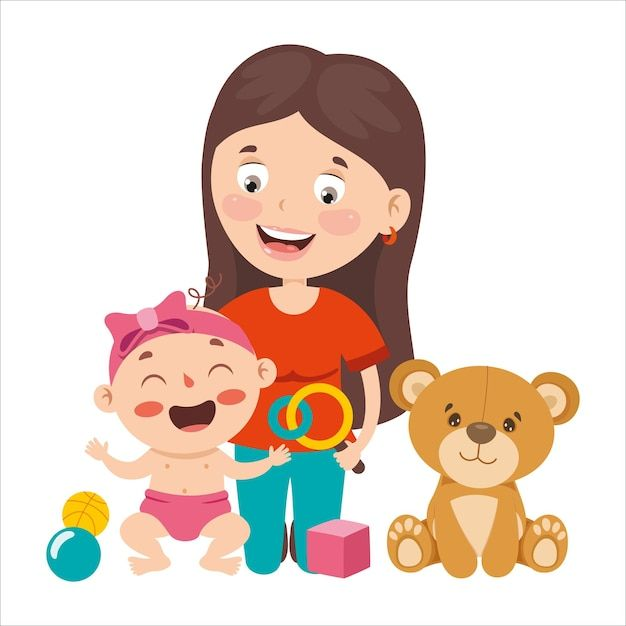
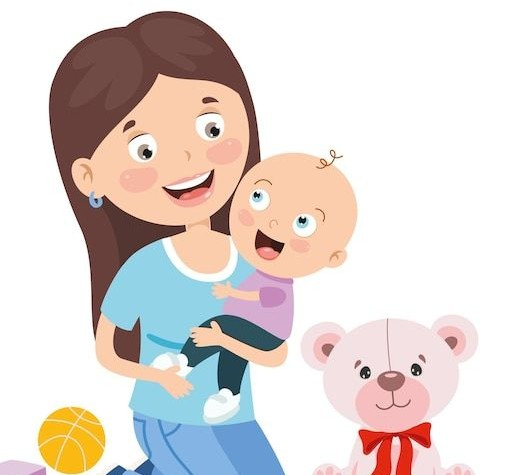
homepage_v1

diff --git a/src/components/ImageCarousel.js b/src/components/ImageCarousel.js
@@ -1,0 +1,128 @@
+import { useEffect, useState } from 'react';
+import { ChevronLeft, ChevronRight } from 'lucide-react';
+import slidePlay from '../assets/slide-babysitter-play.jpg';
+import slideDropoff from '../assets/slide-parent-dropoff.jpg';
+import slideReading from '../assets/slide-reading-time.jpg';
+import slideArt from '../assets/slide-art-activity.jpg';
+import slideStory from '../assets/slide-evening-story.jpg';
+
+const slides = [
+  {
+    src: slidePlay,
+    alt: 'Baby-sitter et enfant jouent ensemble',
+    title: 'Jeux et rires partagés',
+    description: 'Une baby-sitter attentive qui accompagne les petits moments de jeu.',
+  },
+  {
+    src: slideDropoff,
+    alt: 'Parent confiant qui dépose son enfant',
+    title: 'Départ serein des parents',
+    description: 'Confiance et sourire pour chaque garde, dès le premier contact.',
+  },
+  {
+    src: slideReading,
+    alt: 'Lecture d\'une histoire avec un enfant',
+    title: 'Lecture douce et réconfort',
+    description: 'Des instants calmes où l\'enfant se sent bien et écouté.',
+  },
+  {
+    src: slideArt,
+    alt: 'Temps d\'activité créative avec coloriage',
+    title: 'Activités créatives',
+    description: 'Peinture, coloriage et imagination pour une garde inspirante.',
+  },
+  {
+    src: slideStory,
+    alt: 'Veillée conte avant le coucher',
+    title: 'Moments apaisés avant le coucher',
+    description: 'Une ambiance douce pour finir la journée en confiance.',
+  },
+];
+
+function ImageCarousel() {
+  const [activeIndex, setActiveIndex] = useState(0);
+  const [isPaused, setIsPaused] = useState(false);
+
+  useEffect(() => {
+    if (isPaused) {
+      return undefined;
+    }
+
+    const interval = window.setInterval(() => {
+      setActiveIndex((current) => (current + 1) % slides.length);
+    }, 3600);
+
+    return () => window.clearInterval(interval);
+  }, [isPaused]);
+
+  const goToSlide = (index) => {
+    setActiveIndex(index);
+  };
+
+  const goPrevious = () => {
+    setActiveIndex((current) => (current - 1 + slides.length) % slides.length);
+  };
+
+  const goNext = () => {
+    setActiveIndex((current) => (current + 1) % slides.length);
+  };
+
+  return (
+    <div
+      className="group relative overflow-hidden rounded-[28px] bg-slate-50 shadow-soft transition-shadow duration-300 hover:shadow-lg"
+      onMouseEnter={() => setIsPaused(true)}
+      onMouseLeave={() => setIsPaused(false)}
+    >
+      <div className="relative h-[320px] sm:h-[360px] md:h-[400px]">
+        {slides.map((slide, index) => (
+          <div
+            key={slide.alt}
+            className={`absolute inset-0 flex items-center justify-center overflow-hidden transition-opacity duration-700 ease-in-out ${index === activeIndex ? 'opacity-100' : 'opacity-0'} `}
+          >
+            <img
+              src={slide.src}
+              alt={slide.alt}
+              className="max-h-full w-full object-contain object-center"
+            />
+            <div className="absolute inset-x-0 bottom-0 bg-gradient-to-t from-slate-950/50 to-transparent px-5 py-5 text-white">
+              <p className="text-sm uppercase tracking-[0.24em] text-amber-200">Confi&apos;Sit</p>
+              <h3 className="mt-2 text-xl font-semibold tracking-tight sm:text-2xl">{slide.title}</h3>
+              <p className="mt-2 max-w-xl text-sm text-slate-100 sm:text-base">{slide.description}</p>
+            </div>
+          </div>
+        ))}
+      </div>
+
+      <div className="absolute inset-x-0 bottom-4 flex justify-center gap-2">
+        {slides.map((_, index) => (
+          <button
+            key={index}
+            type="button"
+            aria-label={`Afficher la diapositive ${index + 1}`}
+            onClick={() => goToSlide(index)}
+            className={`h-3 w-3 rounded-full transition-all duration-300 ${index === activeIndex ? 'bg-amber-500 shadow-soft' : 'bg-white/80 ring-1 ring-slate-200 hover:bg-white'}`}
+          />
+        ))}
+      </div>
+
+      <button
+        type="button"
+        onClick={goPrevious}
+        className="absolute left-3 top-1/2 z-20 -translate-y-1/2 rounded-full bg-slate-950/20 p-2 text-white opacity-0 transition-opacity duration-300 group-hover:opacity-100 hover:bg-slate-950/30 sm:left-4"
+        aria-label="Image précédente"
+      >
+        <ChevronLeft size={22} />
+      </button>
+      <button
+        type="button"
+        onClick={goNext}
+        className="absolute right-3 top-1/2 z-20 -translate-y-1/2 rounded-full bg-slate-950/20 p-2 text-white opacity-0 transition-opacity duration-300 group-hover:opacity-100 hover:bg-slate-950/30 sm:right-4"
+        aria-label="Image suivante"
+      >
+        <ChevronRight size={22} />
+      </button>
+    </div>
+  );
+}
+
+export default ImageCarousel;

diff --git a/src/pages/HomePage.js b/src/pages/HomePage.js
@@ -1,5 +1,6 @@
 import { Link } from 'react-router-dom';
 import { ArrowRight } from 'lucide-react';
+import ImageCarousel from '../components/ImageCarousel';
 
 function HomePage({ user, homeMode, setHomeMode }) {
 
@@ -33,7 +34,7 @@ function HomePage({ user, homeMode, setHomeMode }) {
           <div className="space-y-6">
             <span className="inline-flex rounded-full bg-slate-100 px-4 py-2 text-sm font-semibold uppercase tracking-[0.3em] text-amber-700">Confi&apos;Sit</span>
             <h1 className="max-w-3xl text-4xl font-semibold tracking-tight text-slate-900 sm:text-5xl">
-              Babysitting en Tunisie, simple et sûr pour les parents exigeants.
+              Confiez vos enfants en toute sérénité, où que vous soyez en Tunisie.
             </h1>
             <p className="max-w-2xl text-lg leading-8 text-slate-600">
               Confi&apos;Sit met en relation parents et baby-sitters de confiance avec des profils clairs, des avis transparents et une expérience mobile-first.
@@ -55,20 +56,17 @@ function HomePage({ user, homeMode, setHomeMode }) {
             <div className="rounded-[28px] bg-gradient-to-br from-amber-100 to-white p-6 shadow-inner">
               <p className="text-sm font-semibold uppercase tracking-[0.3em] text-amber-700">Rejoignez-nous</p>
               <p className="mt-4 text-lg font-semibold text-slate-900">Des gardes fiables, proches et sereines.</p>
-              <div className="mt-6 grid gap-4">
-                <div className="rounded-3xl bg-slate-50 p-4">
-                  <p className="text-sm text-slate-600">Sécurité</p>
-                  <p className="mt-2 text-base font-semibold text-slate-900">Profils vérifiés et parcours transparent.</p>
-                </div>
-                <div className="rounded-3xl bg-slate-50 p-4">
-                  <p className="text-sm text-slate-600">Simplicité</p>
-                  <p className="mt-2 text-base font-semibold text-slate-900">Recherche facile sur mobile.</p>
-                </div>
-                <div className="rounded-3xl bg-slate-50 p-4">
-                  <p className="text-sm text-slate-600">Proximité</p>
-                  <p className="mt-2 text-base font-semibold text-slate-900">Baby-sitters locales à travers la Tunisie.</p>
-                </div>
+              <div className="mt-6">
+                <Link
+                  to="/inscription"
+                  className="inline-flex items-center justify-center rounded-full bg-amber-500 px-5 py-3 text-sm font-semibold text-white shadow-soft transition hover:bg-amber-600"
+                >
+                  S&apos;inscrire maintenant
+                </Link>
               </div>
+            </div>
+            <div className="mt-6">
+              <ImageCarousel />
             </div>
           </div>
         </div>
@@ -76,9 +74,12 @@ function HomePage({ user, homeMode, setHomeMode }) {
         <div className="grid gap-10 lg:grid-cols-[1fr_1fr] lg:items-center">
           <div className="space-y-6">
             <span className="inline-flex rounded-full bg-amber-100 px-4 py-2 text-sm font-semibold uppercase tracking-[0.3em] text-amber-700">Qui sommes-nous</span>
-            <h2 className="text-3xl font-semibold text-slate-900 sm:text-4xl">Notre mission : réunir les familles tunisiennes et des baby-sitters de confiance.</h2>
+            <h2 className="text-3xl font-semibold text-slate-900 sm:text-4xl">Notre mission : connecter les familles avec des baby-sitters de confiance.</h2>
             <p className="text-slate-600 leading-8">
-              Confi&apos;Sit accompagne parents et baby-sitters avec une approche centrée sur la sécurité, la simplicité et la proximité. Nous proposons un service moderne et rassurant pour organiser des gardes sereines dans toute la Tunisie.
+              Confi'Sit accompagne parents et baby-sitters avec une approche centrée sur la sécurité, la simplicité et la proximité. Nous proposons un service moderne et rassurant pour organiser des gardes sereines, partout en Tunisie.
+Notre vision : bâtir une communauté locale où chaque parent trouve l'accompagnement idéal pour son enfant, et où chaque baby-sitter construit une relation de confiance durable avec les familles qu'elle accompagne.
+
+
             </p>
             <p className="text-slate-600 leading-8">
               Notre vision est de créer une communauté locale où chaque parent trouve le bon accompagnement pour son enfant et chaque baby-sitter développe une relation de confiance avec les familles.

diff --git a/src/pages/SignupPage.js b/src/pages/SignupPage.js
@@ -70,11 +70,13 @@ function SignupPage({ onSignup }) {
               onClick={() => handleRoleSelect('parent')}
               className="group rounded-[32px] border border-slate-200 bg-white p-6 text-left shadow-soft transition hover:-translate-y-1 hover:shadow-lg"
             >
-              <img
-                src="/images/parent.jpg"
-                alt="Parent avec bébé"
-                className="h-64 w-full rounded-3xl object-cover"
-              />
+              <div className="relative aspect-[4/3] w-full overflow-hidden rounded-[28px] bg-slate-100">
+                <img
+                  src="/images/parent.jpg"
+                  alt="Parent avec bébé"
+                  className="absolute inset-0 h-full w-full object-cover object-center"
+                />
+              </div>
               <div className="mt-5">
                 <p className="text-sm uppercase tracking-[0.28em] text-amber-600">Parent</p>
                 <h2 className="mt-3 text-2xl font-semibold text-slate-900">Je cherche une baby-sitter</h2>
@@ -86,11 +88,13 @@ function SignupPage({ onSignup }) {
               onClick={() => handleRoleSelect('baby-sitter')}
               className="group rounded-[32px] border border-slate-200 bg-white p-6 text-left shadow-soft transition hover:-translate-y-1 hover:shadow-lg"
             >
-              <img
-                src="/images/babysitter.jpg"
-                alt="Baby-sitter souriante"
-                className="h-64 w-full rounded-3xl object-cover"
-              />
+              <div className="relative aspect-[4/3] w-full overflow-hidden rounded-[28px] bg-slate-100">
+                <img
+                  src="/images/babysitter.jpg"
+                  alt="Baby-sitter souriante"
+                  className="absolute inset-0 h-full w-full object-cover object-center"
+                />
+              </div>
               <div className="mt-5">
                 <p className="text-sm uppercase tracking-[0.28em] text-amber-600">Baby-sitter</p>
                 <h2 className="mt-3 text-2xl font-semibold text-slate-900">Je propose mes services</h2>